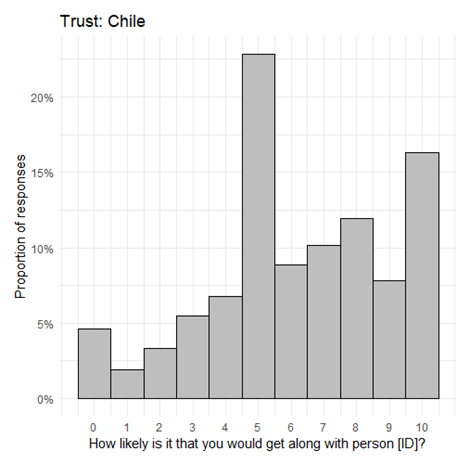
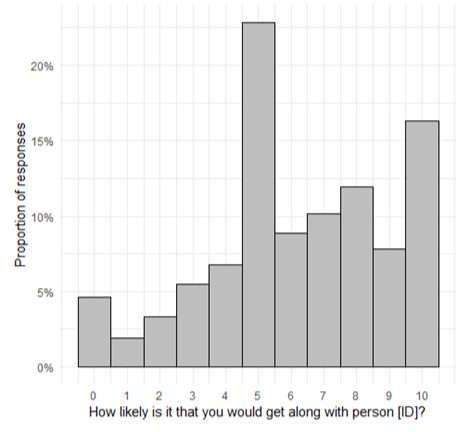
typos slides coloquium

diff --git a/presentations/colbigsss/colbigsss.html b/presentations/colbigsss/colbigsss.html
@@ -366,16 +366,14 @@
 <p>Supervisors: <br>Dr.&nbsp;Patrick Sachweh (U. Bremen)<br>Dr.&nbsp;Olaf Groh-Samberg (U. Bremen)<br>Dr.&nbsp;Simone Schneider (U. Pompeu Fabra)</p>
 </div>
 </section>
-<h3 style="color:pink" id="april-2026-bremen">April, 2026, Bremen</h3>
+<h3 style="color:pink" id="may-2026-bremen">May, 2026, Bremen</h3>
 
 </div></div>
 </section>
 <section id="section" class="slide level2">
 <h2></h2>
 <p><br><br><br></p>
-<blockquote>
 <p><em>Without the general trust that people have in one another, society itself would fall apart, since very few relationships are based entirely on what is known with certainty about another person, and very few relationships would endure if trust were not as strong as, or stronger than, rational evidence or personal observation.</em></p>
-</blockquote>
 <div style="text-align: right">
 <p>Simmel, G. (2011, [1900]). <em>The philosophy of money</em>.</p>
 </div>
@@ -444,7 +442,7 @@
 <li class="fragment"><strong>Heterogeneity</strong> (dispersion across categories).</li>
 <li class="fragment"><strong>Inequality</strong> (status disparity across ranks).</li>
 </ul></li>
-<li class="fragment">Weakly correlated, intersecting parameters can foster intergroup ties; strongly correlated parameters reinforce boundaries.<span class="citation" data-cites="blau_macrosociological_1977">(<a href="#/references" role="doc-biblioref" onclick="">Blau, 1977</a>)</span></li>
+<li class="fragment">Weakly correlated, intersecting parameters can foster intergroup ties; strongly correlated parameters reinforce boundaries <span class="citation" data-cites="blau_macrosociological_1977">(<a href="#/references" role="doc-biblioref" onclick="">Blau, 1977</a>)</span>.</li>
 <li class="fragment">Objective structure captures opportunities for association while excluding preferences, norms, and values.</li>
 </ul>
 </div>
@@ -533,14 +531,14 @@
 </section>
 <section id="summary" class="slide level2">
 <h2>Summary</h2>
+<div>
 <ol type="1">
-<li><p>Social cohesion is a characteristic of a social unit, but it is defined in terms of the social interactions within it.</p></li>
-<li><p>Social interactions within the unit are the constituent elements of social cohesion.</p></li>
-<li><p>The characteristics of the social unit, such as inequality, heterogeneity, and institutions (formal or informal), are understood as explanatory factors of cohesiveness, since they affect social interactions.</p></li>
+<li class="fragment"><p>Social cohesion is a characteristic of a social unit, but it is defined in terms of the social interactions within it.</p></li>
+<li class="fragment"><p>Social interactions within the unit are the constituent elements of social cohesion.</p></li>
+<li class="fragment"><p>The characteristics of the social unit, such as inequality, heterogeneity, and institutions (formal or informal), are understood as explanatory factors of cohesiveness, since they affect social interactions.</p></li>
+<li class="fragment"><p>This study focuses on the <strong>horizontal dimension</strong> of social cohesion. Particularly, the individual (<em>subjective</em>) <strong>expectations</strong> toward different social positions as a constitutive component in the formation of social associations within and between groups.</p></li>
 </ol>
-<blockquote>
-<p>This study focuses on the <strong>horizontal dimension</strong> of social cohesion. Particularly, the individual (<em>subjective</em>) <strong>expectations</strong> toward different social positions as a constitutive component in the formation of social associations within and between groups.</p>
-</blockquote>
+</div>
 </section>
 <section>
 <section id="how-are-different-social-positions-linked-to-positive-interactional-expectations-and-to-what-extent-does-similarity-in-social-position-affect-them" class="title-slide slide level1 center" data-background-color="#491106ff">
@@ -828,8 +826,8 @@ Y_{ij} &amp;= \gamma_{00} + \gamma_{01}\text{RespIncome}_j + \gamma_{10}\text{Vi
 <div class="highlight-last" style="font-size: 110%;">
 <ul>
 <li class="fragment"><p>Socioeconomic differences show a pattern of distancing, particularly the withdrawal of individuals with low status from those with high status.</p></li>
-<li class="fragment"><p>Sociocultural diversity is less pronounced. Newcomers (migrants) tend to be less liked on average; however, this appears to be a relatively stable pattern across groups, with no clear evidence of homophily.</p></li>
-<li class="fragment"><p>Religious differences between believers and non-believers are more evident, especially between non-religious individuals and Christians, possibly reflecting a process of secular change (?).</p></li>
+<li class="fragment"><p>Sociocultural positions have nuanced effects. Migrants tend to be less liked on average; however, this appears to be a relatively stable pattern across groups, with no clear evidence of homophily.</p></li>
+<li class="fragment"><p>Religious differences between believers and non-believers are more evident, especially between non-religious individuals and Christians. This is possibly reflecting a process of secular change (?).</p></li>
 </ul>
 </div>
 </section>
@@ -837,13 +835,13 @@ Y_{ij} &amp;= \gamma_{00} + \gamma_{01}\text{RespIncome}_j + \gamma_{10}\text{Vi
 <h2>Discussion and conclusions</h2>
 <div class="highlight-last" style="font-size: 110%;">
 <ul>
-<li class="fragment">Political divides are noticeable: moderates are generally preferred over both extremes.
+<li class="fragment">Political divides are noticeable: centrists are generally preferred over both poles.
 <ul>
-<li class="fragment">Homophily is evident within political groups, is this some degree of polarization?</li>
+<li class="fragment">Homophily is evident within political groups. Would this be considered polarization?</li>
 </ul></li>
 <li class="fragment">Human values emerge as the strongest driver.
 <ul>
-<li class="fragment">Similarity in values is closely linked trustworthiness. Particularly for the those with “self-enhancement” as dominant value.</li>
+<li class="fragment">Similarity in values is closely linked positive expectations. Particularly for the those with “self-enhancement” as dominant value.</li>
 </ul></li>
 </ul>
 </div>
